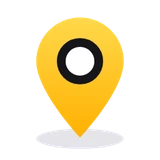
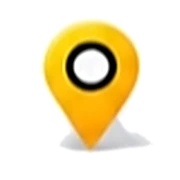
Макет 2: сүрөтчөлөр макеттин өзүнөн, ийри сары-кара фон, сүрөттөрдүн кэшин жаңылоо (?v=8)
Claude-Session: https://claude.ai/code/session_01QqaFd74dCabiCok1GW4n4v

Changed region(s): [[0.2188, 0.0938, 0.8438, 0.9375]]

diff --git a/static/rider.html b/static/rider.html
@@ -100,15 +100,15 @@ input.f:focus{border-color:var(--navy)}
 .quick{display:flex;gap:6px;flex-wrap:wrap;margin-bottom:8px}
 .quick button{border:1px solid var(--line);background:#fff;border-radius:16px;padding:6px 10px;font-size:13px;cursor:pointer}
 </style>
-<link rel="preload" as="image" href="/static/h_taxi.webp"><link rel="preload" as="image" href="/static/h_box.webp"><link rel="preload" as="image" href="/static/h_girl.webp"><link rel="preload" as="image" href="/static/h_map.webp">
-<link rel="stylesheet" href="/static/theme.css?v=67">
+<link rel="preload" as="image" href="/static/h_taxi.webp?v=8"><link rel="preload" as="image" href="/static/h_box.webp?v=8"><link rel="preload" as="image" href="/static/h_girl.webp?v=8"><link rel="preload" as="image" href="/static/h_map.webp?v=8">
+<link rel="stylesheet" href="/static/theme.css?v=69">
 </head>
 <body>
 <div id="map"></div>
 
 <div class="top">
   <div class="lcol"><div class="logo"><img src="/static/logo.png?v=2" alt="">Такси <b>ТАП!</b></div>
-    <div class="role"><a class="on"><img src="/static/r_bag.webp" alt="">Жүргүнчү</a><a href="/driver"><img src="/static/r_car.webp" alt="" class="rc">Айдоочу</a></div></div>
+    <div class="role"><a class="on"><img src="/static/r_bag.webp?v=8" alt="">Жүргүнчү</a><a href="/driver"><img src="/static/r_car.webp?v=8" alt="" class="rc">Айдоочу</a></div></div>
   <button class="round" id="menuBtn" aria-label="Кабинет">👤</button>
 </div>
 
@@ -120,7 +120,7 @@ input.f:focus{border-color:var(--navy)}
 
 <div class="sheet" id="sheet"><div class="grab"></div><div id="view"></div></div>
 <div class="home hide" id="home"></div>
-<nav id="bnav" class="bnav pro"><a data-k="home" class="on"><img src="/static/n_home.webp" alt="">Башкы бет</a><a data-k="trips"><img src="/static/n_trips.webp" alt="">Сапарлар</a><a data-k="go" class="big"><img src="/static/n_go.webp" alt="">Чакыруу</a><a data-k="help"><img src="/static/n_help.webp" alt="">Жардам</a><a data-k="cab"><img src="/static/n_cab.webp" alt="">Кабинет</a></nav>
+<nav id="bnav" class="bnav pro"><a data-k="home" class="on"><img src="/static/n_home.webp?v=8" alt="">Башкы бет</a><a data-k="trips"><img src="/static/n_trips.webp?v=8" alt="">Сапарлар</a><a data-k="go" class="big"><img src="/static/n_go.webp?v=8" alt="">Чакыруу</a><a data-k="help"><img src="/static/n_help.webp?v=8" alt="">Жардам</a><a data-k="cab"><img src="/static/n_cab.webp?v=8" alt="">Кабинет</a></nav>
 
 <script src="https://unpkg.com/leaflet@1.9.4/dist/leaflet.js"></script>
 <script src="/static/area.js"></script>
@@ -230,7 +230,7 @@ function gpsPaint() {
   const el = $("#gpsInfo"); if (!el) return;
   const g = S.gps;
   el.className = "gpsinfo " + (g.state === "ok" ? (S.gpsBad ? "mid" : "good") : "bad");
-  if (g.state === "out") { el.innerHTML = `Сиз иштөө аймагынын сыртындасыз <button class="gpsarea" id="gpsArea"><img src="/static/c_map.webp" alt="">Аймакты көрүү</button>`;
+  if (g.state === "out") { el.innerHTML = `Сиз иштөө аймагынын сыртындасыз <button class="gpsarea" id="gpsArea"><img src="/static/c_map.webp?v=8" alt="">Аймакты көрүү</button>`;
     $("#gpsArea").onclick = () => { homeOn(false); showAreaOnMap(map, () => viewStepA()); }; }
   else el.textContent = g.state === "ok" ? (S.gpsBad ? `📡 Болжолдуу (±${g.acc} м) — картадан тактаңыз` : `📡 GPS так (±${g.acc} м)`)
     : g.state === "denied" ? "⛔ GPS'ке уруксат жок — браузердин жөндөөсүнөн уруксат бериңиз"
@@ -306,11 +306,11 @@ function viewIdle() {
   if (P.work) rec.push({ico:"💼", name:"Иш", sub:P.work.name || "", lat:P.work.lat, lon:P.work.lon});
   (P.recent || []).forEach(r => rec.push({ico:"🕘", name:r.name, sub:"Акыркы сапар", lat:r.lat, lon:r.lon}));
   $("#home").innerHTML = `<div class="hh"><div class="logo"><img src="/static/logo.png?v=2" alt="">Такси <b>ТАП!</b></div><button class="round" id="hMenu" aria-label="Кабинет">${avBtn()}</button></div>
-    <div class="role hrole"><a class="on"><img src="/static/r_bag.webp" alt="">Жүргүнчү</a>${role2()}</div>
-    <button class="haddr" id="hAddr"><small><img class="pinI" src="/static/pin.webp" alt="">Сиз турган жер</small><b id="fromTxt">${esc(S.fromAddr || "Аныкталууда…")}</b><span>›</span></button>
-    <div class="tiles">${tile("tTaxi", "h_taxi.webp", "Такси", `<span id="taxiEta">${homeEta()}</span>`, true, !has("delivery"))}
-      ${has("delivery") ? tile("tDel", "h_box.webp", "Жеткирүү", "Буюм, документ") : ""}</div>
-    <div class="tiles2">${stile("tOther", "h_girl.webp", "Башка адамга такси заказ кылуу")}${stile("tMap", "h_map.webp", "Картадан<br>белгилөө")}</div>
+    <div class="role hrole"><a class="on"><img src="/static/r_bag.webp?v=8" alt="">Жүргүнчү</a>${role2()}</div>
+    <button class="haddr" id="hAddr"><small><img class="pinI" src="/static/pin.webp?v=8" alt="">Сиз турган жер</small><b id="fromTxt">${esc(S.fromAddr || "Аныкталууда…")}</b><span>›</span></button>
+    <div class="tiles">${tile("tTaxi", "h_taxi.webp?v=8", "Такси", `<span id="taxiEta">${homeEta()}</span>`, true, !has("delivery"))}
+      ${has("delivery") ? tile("tDel", "h_box.webp?v=8", "Жеткирүү", "Буюм, документ") : ""}</div>
+    <div class="tiles2">${stile("tOther", "h_girl.webp?v=8", "Башка адамга такси заказ кылуу")}${stile("tMap", "h_map.webp?v=8", "Картадан<br>белгилөө")}</div>
     ${has("comfort") || has("minivan") ? `<div class="tiles3">${has("comfort") ? `<button class="sm" id="tComf"><span>🚘</span>Комфорт</button>` : ""}${has("minivan") ? `<button class="sm" id="tVan"><span>🚐</span>Минивэн</button>` : ""}</div>` : ""}
     <button class="hsearch" id="hSearch">🔍 <span>Каякка барасыз?</span><em>›</em></button>
     <div class="hrec">${rec.slice(0, 5).map((r, i) => `<button class="rec" data-i="${i}"><span class="pi">${r.ico}</span><span class="rt"><b>${esc(r.name)}</b><small>${esc(r.sub)}</small></span><span class="t">${minsTo(r)}</span><span class="chev">›</span></button>`).join("")}</div>
@@ -548,7 +548,7 @@ async function viewQuote() {
     <div class="row"><span class="bul to lt">Б</span><div style="flex:1"><b>${esc(S.toAddr)}</b></div><input class="hn" id="hnT" placeholder="үй №" maxlength="12" value="${esc(S.hnT || "")}"></div>
     <input class="f lm" id="lmT" maxlength="60" placeholder="Б белгиси (милдеттүү эмес)" value="${esc(S.lmT || "")}">
     <div class="cls" id="cls">${q.classes.map(c => `<div data-c="${c.id}"><i>${ICON[c.id] || "🚕"}</i><div class="muted">${esc(c.name)}</div><b>${priceTxt(c)}${q.surge > 1 && c.price ? `<s>${Math.round(c.price / q.surge / 10) * 10} с</s>` : ""}</b></div>`).join("")}</div>
-    ${q.fixed ? `<div class="fixbox"><img src="/static/c_map.webp" alt=""><span><b>Туруктуу баа</b>${esc(q.fixed)} — баа өзгөрбөйт</span></div>` : ""}
+    ${q.fixed ? `<div class="fixbox"><img src="/static/c_map.webp?v=8" alt=""><span><b>Туруктуу баа</b>${esc(q.fixed)} — баа өзгөрбөйт</span></div>` : ""}
     ${q.surge > 1 ? `<div class="surgebox"><span>💓</span>Талап жогору ×${q.surge} — баа бир аз кымбатыраак. Бир аздан кийин арзандашы мүмкүн.</div>` : ""}
     <div class="muted" style="margin-top:6px">${sub} · <span id="qp"></span></div>
     <div id="extra"></div>
@@ -762,7 +762,7 @@ function sheetBox(html, after) {
   const x = $("#bxX"); if (x) x.onclick = closeBox; if (after) after();
 }
 function confirmOut() {
-  if (S.ride) return sheetBox(`<div class="lgx"><div class="lg-ic" style="background:#fff6dd"><img src="/static/r_car.webp" alt="" style="width:56px"></div><h2>Азыр чыгууга болбойт</h2>
+  if (S.ride) return sheetBox(`<div class="lgx"><div class="lg-ic" style="background:#fff6dd"><img src="/static/r_car.webp?v=8" alt="" style="width:56px"></div><h2>Азыр чыгууга болбойт</h2>
       <p class="muted">Сизде жүрүп жаткан сапар бар. Адегенде сапарды бүтүрүңүз же жокко чыгарыңыз.</p>
       <button class="btn main" id="lgBack">Сапарга кайтуу</button></div>`, () => { $("#lgBack").onclick = () => { closeBox(); viewRide(); }; });
   sheetBox(`<div class="lgx"><div class="lg-ic">🚪</div><h2>Аккаунттан чыгасызбы?</h2>
@@ -797,7 +797,7 @@ function viewDone(r) {
   render(`${head}
     ${r.discount ? `<p class="muted" style="margin:-4px 0 6px">🎁 Промокод: −${Math.round(r.discount)} сом</p>` : ""}${r.wait.fee ? `<p class="muted" style="margin:-4px 0 6px">⏳ Күтүү: +${r.wait.fee} сом (баада бар)</p>` : ""}
     ${r.rated ? `<p class="muted" style="text-align:center;margin:14px 0">✓ Бааңыз кабыл алынды. Рахмат!</p>` : `
-    <div class="done-car"><img src="/static/r_car.webp" alt=""></div><h2 class="done-q" id="dq">Сапар кандай болду?</h2><p class="muted" style="text-align:center;margin:0">Пикириңиз жашыруун калат</p>
+    <div class="done-car"><img src="/static/r_car.webp?v=8" alt=""></div><h2 class="done-q" id="dq">Сапар кандай болду?</h2><p class="muted" style="text-align:center;margin:0">Пикириңиз жашыруун калат</p>
     <div class="stars big" id="stars">${[1,2,3,4,5].map(n => `<span data-n="${n}">★</span>`).join("")}</div>
     <div class="tagrow" id="tags"></div>
     <input class="f hide" id="cm" maxlength="300" placeholder="Пикир…">
@@ -892,15 +892,15 @@ async function viewCabinet() {
   const P = PLACES && !PLACES.error ? PLACES : await api("/api/places");
   const place = (k, ico, t) => `<div class="hrow"><span>${ico} <b>${t}</b> ${P[k] ? `<span class="muted">· ${esc(P[k].name || "белгиленген")}</span>` : `<span class="muted">· белгилене элек</span>`}</span>
     <span><button class="lnk-b" style="width:auto;height:32px;padding:0 10px;font-size:13px" data-pl="${k}">${P[k] ? "Өзгөртүү" : "Кошуу"}</button>${P[k] ? ` <button class="lnk-b" style="width:32px;height:32px;font-size:13px" data-del="${k}">✕</button>` : ""}</span></div>`;
-  const li = (id, img, t, sub, href) => `<${href ? `a href="${href}"` : "button"} class="ccard" id="${id}"><img class="cimg" src="/static/${img}.webp" alt=""><span class="ct"><b>${t}</b>${sub ? `<small>${sub}</small>` : ""}</span><em>›</em></${href ? "a" : "button"}>`;
+  const li = (id, img, t, sub, href) => `<${href ? `a href="${href}"` : "button"} class="ccard" id="${id}"><img class="cimg" src="/static/${img}.webp?v=8" alt=""><span class="ct"><b>${t}</b>${sub ? `<small>${sub}</small>` : ""}</span><em>›</em></${href ? "a" : "button"}>`;
   let promo = ""; try { promo = localStorage.getItem("promoPre") || ""; } catch (e) {}
   render(""); homeOn(true);
   $("#home").innerHTML = `<div class="cab2">
       <button class="cab-av" id="avBox">${me.avatar ? `<img src="${esc(me.avatar)}" alt="">` : esc((me.name || "?")[0].toUpperCase())}<span class="cab-cam">📷</span></button>
       <input type="file" accept="image/*" capture="user" id="avCam" hidden><input type="file" accept="image/*" id="avGal" hidden>
       <div class="cab-nm">${esc(me.name || "Жүргүнчү")}</div><div class="cab-ph">${esc(me.phone)}</div>
-      <div class="cab-q"><button id="qH"><img src="/static/c_trips.webp" alt="">Сапарлар</button><a href="${me.bot ? "https://t.me/" + me.bot : "/terms"}" target="_blank"><img src="/static/c_help.webp" alt="">Колдоо</a>
-        <button id="qA"><img src="/static/c_addr.webp" alt="">Даректер</button><button id="qS"><img src="/static/c_set.webp" alt="">Жөндөөлөр</button></div>
+      <div class="cab-q"><button id="qH"><img src="/static/c_trips.webp?v=8" alt="">Сапарлар</button><a href="${me.bot ? "https://t.me/" + me.bot : "/terms"}" target="_blank"><img src="/static/c_help.webp?v=8" alt="">Колдоо</a>
+        <button id="qA"><img src="/static/c_addr.webp?v=8" alt="">Даректер</button><button id="qS"><img src="/static/c_set.webp?v=8" alt="">Жөндөөлөр</button></div>
     <div id="cabMore"></div>
     ${li("cPromo", "c_gift", "Промокод", promo ? "Кийинки заказга: " + esc(promo) : "Промокод киргизүү")}
     ${li("cPay", "c_card", "Төлөм ыкмасы", "Накталай — айдоочуга түз")}
@@ -966,7 +966,7 @@ try { if (new URLSearchParams(location.search).get("next") === "park") localStor
 try { const qs = new URLSearchParams(location.search), rf = qs.get("ref"), pm = qs.get("promo");
   if (rf) { localStorage.setItem("parkRef", rf); if (pm) localStorage.setItem("promoPre", pm.toUpperCase()); history.replaceState(null, "", "/"); } } catch (e) {}
 let ME_ROLE = {};
-const role2 = () => ME_ROLE.park && !ME_ROLE.driver ? `<a href="/park"><span class="rpk">🏢</span>Парк</a>` : `<a href="/driver"><img src="/static/r_car.webp" alt="" class="rc">Айдоочу</a>`;
+const role2 = () => ME_ROLE.park && !ME_ROLE.driver ? `<a href="/park"><span class="rpk">🏢</span>Парк</a>` : `<a href="/driver"><img src="/static/r_car.webp?v=8" alt="" class="rc">Айдоочу</a>`;
 async function boot() {
   const me = await api("/api/me"); ME_ROLE = {park:me.park, driver:me.driver, admin:me.admin};
   if (ME_ROLE.park && !ME_ROLE.driver) document.querySelectorAll(".role a[href='/driver']").forEach(a => a.outerHTML = role2());

diff --git a/static/theme.css b/static/theme.css
@@ -496,7 +496,7 @@ body.dnav .sheet{max-height:calc(100dvh - 318px - env(safe-area-inset-top,0px))!
 .drole a{font-size:12px!important;padding:3px 8px 3px 3px!important;gap:2px}.drole a img{width:22px;height:22px}.drole a img.rc{width:30px;height:20px}
 .lnk-t b .lki{height:26px;width:26px;object-fit:contain;vertical-align:-7px;margin-right:2px}.lnk-t b .lki.rc{width:38px;height:24px;vertical-align:-6px}
 /* ===== Жүргүнчүнүн кабинети — Kake'нин макети (фон + чакан өлчөмдөр) ===== */
-#home.cabbg{background-color:#fff;background-image:url(/static/cb_tl.webp),url(/static/cb_tr.webp),url(/static/cb_bl.webp),url(/static/cb_br.webp);
+#home.cabbg{background-color:#fff;background-image:url(/static/cb_tl.webp?v=8),url(/static/cb_tr.webp?v=8),url(/static/cb_bl.webp?v=8),url(/static/cb_br.webp?v=8);
   background-repeat:no-repeat;background-size:46% auto,48% auto,22% auto,22% auto;background-position:left top,right top,left bottom,right bottom;background-attachment:local}
 .cab2{text-align:center;padding-top:6px}
 .cab2 .cab-av{width:84px;height:84px;margin:0 auto 4px;border:4px solid #ffc400;box-shadow:0 8px 22px rgba(255,170,0,.35);background:#fff;font-size:34px}
@@ -514,7 +514,7 @@ body.dnav .sheet{max-height:calc(100dvh - 318px - env(safe-area-inset-top,0px))!
 /* ===== Бирдиктүү өлчөмдөр (жүргүнчүнүн кабинетиндей) — айдоочунун кабинети ===== */
 .sheet.cabbg{position:fixed}
 .sheet.cabbg::before{content:"";position:absolute;left:0;right:0;top:0;height:170px;pointer-events:none;border-radius:22px 22px 0 0;opacity:.5;
-  background:url(/static/cb_tl.webp) left top/34% auto no-repeat,url(/static/cb_tr.webp) right top/36% auto no-repeat}
+  background:url(/static/cb_tl.webp?v=8) left top/34% auto no-repeat,url(/static/cb_tr.webp?v=8) right top/36% auto no-repeat}
 .sheet.cabbg>*{position:relative;z-index:1}
 .sheet.cabbg h2{font-size:23px;font-weight:900;margin:2px 0 10px}
 .sheet.cabbg .note{font-size:14px;line-height:1.4;padding:11px 13px;border-radius:18px!important;box-shadow:0 6px 16px rgba(20,20,30,.06)}
@@ -527,11 +527,11 @@ body.dnav .sheet{max-height:calc(100dvh - 318px - env(safe-area-inset-top,0px))!
 .sheet.cabbg .hist .row{font-size:14px}
 /* ===== Парктын кабинети: ошол эле фон жана өлчөмдөр ===== */
 .pkbg{position:absolute;left:0;right:0;top:0;height:220px;pointer-events:none;opacity:.55;
-  background:url(/static/cb_tl.webp) left top/40% auto no-repeat,url(/static/cb_tr.webp) right top/42% auto no-repeat}
+  background:url(/static/cb_tl.webp?v=8) left top/40% auto no-repeat,url(/static/cb_tr.webp?v=8) right top/42% auto no-repeat}
 .pkbg+.wrap{position:relative}
 /* ===== Башкы бет (жүргүнчү): ошол эле фон жана өлчөмдөр ===== */
 #home.hbg::before{content:"";position:absolute;left:0;right:0;top:0;height:260px;pointer-events:none;opacity:.5;z-index:0;
-  background:url(/static/cb_tl.webp) left top/42% auto no-repeat,url(/static/cb_tr.webp) right top/44% auto no-repeat}
+  background:url(/static/cb_tl.webp?v=8) left top/42% auto no-repeat,url(/static/cb_tr.webp?v=8) right top/44% auto no-repeat}
 #home.hbg>*{position:relative;z-index:1}
 #home.hbg .haddr b{font-size:22px;font-weight:900}
 #home.hbg .tile b{font-size:22px!important}#home.hbg .tile small{font-size:14px!important}
@@ -603,7 +603,7 @@ body.dnav .sheet{max-height:calc(100dvh - 318px - env(safe-area-inset-top,0px))!
 .dspr{font-size:15px}.dspr:empty{display:none}
 /* ===== Жаңы стиль (Kake'нин макети 2): сары-кара жалпак сүрөтчөлөр, тилкелүү фон, шаар силуэти ===== */
 img[src*="/static/c_"]:not([src*="c_car."]):not([src*="c_hdr"]):not([src*="c_taxi"]),img[src*="/static/n_"]:not([src*="n_go"]){object-fit:contain!important;background:transparent!important;border-radius:0!important}
-#home.cabbg{background-color:#fafafb;background-image:url(/static/cb_tl.webp),url(/static/cb_tr.webp),url(/static/cb_br.webp),url(/static/cb_bl.webp);
+#home.cabbg{background-color:#fafafb;background-image:url(/static/cb_tl.webp?v=8),url(/static/cb_tr.webp?v=8),url(/static/cb_br.webp?v=8),url(/static/cb_bl.webp?v=8);
   background-size:62% auto,34% auto,30% auto,100% auto;background-position:left -2px top -2px,right -2px top 190px,right bottom 70px,left bottom 70px}
 .cab2 .cab-q img{width:44px;height:44px;border-radius:0}
 .cab2 .cab-q>*{border-radius:20px;box-shadow:0 8px 20px rgba(20,20,30,.08)}
@@ -612,10 +612,17 @@ img[src*="/static/c_"]:not([src*="c_car."]):not([src*="c_hdr"]):not([src*="c_tax
 #home.cabbg .cab-out{background:linear-gradient(180deg,#ffd84a,#ffc400 60%,#ffb300)!important;color:#16161a!important;border:0!important;box-shadow:0 10px 24px rgba(255,170,0,.4)!important;
   display:flex!important;align-items:center;justify-content:center;gap:10px;font-weight:900!important}
 #home.cabbg .cab-out svg{width:26px;height:26px}
-.sheet.cabbg::before{opacity:1;height:150px;background:url(/static/cb_tl.webp) left -2px top -2px/52% auto no-repeat,url(/static/cb_tr.webp) right -2px top -40px/26% auto no-repeat}
-.pkbg{opacity:1;background:url(/static/cb_tl.webp) left -2px top -2px/58% auto no-repeat,url(/static/cb_tr.webp) right -2px top 60px/30% auto no-repeat}
-#home.hbg::before{opacity:.9;background:url(/static/cb_tl.webp) left -2px top -2px/60% auto no-repeat,url(/static/cb_tr.webp) right -2px top 120px/30% auto no-repeat}
+.sheet.cabbg::before{opacity:1;height:150px;background:url(/static/cb_tl.webp?v=8) left -2px top -2px/52% auto no-repeat,url(/static/cb_tr.webp?v=8) right -2px top -40px/26% auto no-repeat}
+.pkbg{opacity:1;background:url(/static/cb_tl.webp?v=8) left -2px top -2px/58% auto no-repeat,url(/static/cb_tr.webp?v=8) right -2px top 60px/30% auto no-repeat}
+#home.hbg::before{opacity:.9;background:url(/static/cb_tl.webp?v=8) left -2px top -2px/60% auto no-repeat,url(/static/cb_tr.webp?v=8) right -2px top 120px/30% auto no-repeat}
 .bnav.pro a:not(.big) img{width:34px!important;height:34px!important}
-.sheet.cabbg::before{height:170px;background:url(/static/cb_tr.webp) right -2px top -30px/30% auto no-repeat}
-#home.hbg::before{height:360px;background:url(/static/cb_tr.webp) right -2px top 150px/26% auto no-repeat}
-.pkbg{background:url(/static/cb_tr.webp) right -2px top 40px/32% auto no-repeat}
+.sheet.cabbg::before{height:170px;background:url(/static/cb_tr.webp?v=8) right -2px top -30px/30% auto no-repeat}
+#home.hbg::before{height:360px;background:url(/static/cb_tr.webp?v=8) right -2px top 150px/26% auto no-repeat}
+.pkbg{background:url(/static/cb_tr.webp?v=8) right -2px top 40px/32% auto no-repeat}
+/* макет 2 — фондун жайгашуусу */
+#home.cabbg{background-color:#f7f7f9;background-image:url(/static/cb_tl.webp?v=8),url(/static/cb_tr.webp?v=8),url(/static/cb_br.webp?v=8),url(/static/cb_bl.webp?v=8);
+  background-size:78% auto,40% auto,36% auto,100% auto;background-position:left top,right 0 top 200px,right 0 bottom 64px,left bottom 64px}
+.cab2 .cab-av{background:#fff}
+.sheet.cabbg::before{height:200px;opacity:1;background:url(/static/cb_tr.webp?v=8) right -2px top -50px/30% auto no-repeat}
+#home.hbg::before{height:380px;opacity:1;background:url(/static/cb_tr.webp?v=8) right 0 top 140px/30% auto no-repeat}
+.pkbg{opacity:1;background:url(/static/cb_tr.webp?v=8) right 0 top 30px/34% auto no-repeat}

diff --git a/static/driver.html b/static/driver.html
@@ -81,14 +81,14 @@ label.l{font-size:13px;color:var(--soft);display:block;margin:6px 0 4px}
 .quick button{border:1px solid var(--line);background:#fff;border-radius:16px;padding:6px 10px;font-size:13px;cursor:pointer}
 .sw{display:flex;align-items:center;justify-content:space-between;padding:12px 0;border-top:1px solid var(--line);margin-top:10px}
 </style>
-<link rel="stylesheet" href="/static/theme.css?v=67">
+<link rel="stylesheet" href="/static/theme.css?v=69">
 </head>
 <body>
-<nav id="bnav" class="bnav pro"><a data-k="earn"><img src="/static/n_earn.webp" alt="">Киреше</a><a data-k="hist"><img src="/static/n_trips.webp" alt="">Сапарлар</a><a data-k="line" class="big on"><img src="/static/n_go.webp" alt="">Линия</a><a data-k="help"><img src="/static/n_help.webp" alt="">Жардам</a><a data-k="cab"><img src="/static/n_cab.webp" alt="">Кабинет</a></nav>
+<nav id="bnav" class="bnav pro"><a data-k="earn"><img src="/static/n_earn.webp?v=8" alt="">Киреше</a><a data-k="hist"><img src="/static/n_trips.webp?v=8" alt="">Сапарлар</a><a data-k="line" class="big on"><img src="/static/n_go.webp?v=8" alt="">Линия</a><a data-k="help"><img src="/static/n_help.webp?v=8" alt="">Жардам</a><a data-k="cab"><img src="/static/n_cab.webp?v=8" alt="">Кабинет</a></nav>
 <div id="map"></div>
 <div class="top">
   <div class="lcol"><div class="logo"><img src="/static/logo.png?v=2" alt="">Такси <b>ТАП!</b></div>
-    <div class="role drole"><a href="/"><img src="/static/r_bag.webp" alt="">Жүргүнчү</a><a class="on"><img src="/static/r_car.webp" alt="" class="rc">Айдоочу</a></div></div>
+    <div class="role drole"><a href="/"><img src="/static/r_bag.webp?v=8" alt="">Жүргүнчү</a><a class="on"><img src="/static/r_car.webp?v=8" alt="" class="rc">Айдоочу</a></div></div>
   <div class="rcol"><button class="state hide" id="stBadge" style="display:none">Офлайн</button>
     <button class="tbtn hide topav" id="cabBtn" aria-label="Менин кабинетим">👤</button>
     <div class="r2"><button class="ep hide" id="earn"></button></div>
@@ -285,9 +285,9 @@ document.addEventListener("click", e => { if (e.target.closest && e.target.close
 function outHTML() {
   if (D.in_area !== false) return "";
   const nm = D.area_title || (D.area_gen && D.area_gen !== "иштөө аймагынын" ? D.area_gen.replace(/нун$|нын$|нүн$|нин$/, "") : "");
-  return `<div class="outn"><img src="/static/c_map.webp" alt=""><div><b>Сиз иштөө аймагынын сыртындасыз</b>
+  return `<div class="outn"><img src="/static/c_map.webp?v=8" alt=""><div><b>Сиз иштөө аймагынын сыртындасыз</b>
     <span>Такси ТАП! ${nm ? `<b>${esc(nm)}</b> аймагында` : "иштөө аймагында"} гана иштейт — бул жерде заказ келбейт. Аймакка киргенде заказдар өзү келе баштайт.</span>
-    <button class="btn ghost ib" id="areaShow"><img src="/static/c_map.webp" alt="">Аймакты картадан көрүү</button></div></div>`;
+    <button class="btn ghost ib" id="areaShow"><img src="/static/c_map.webp?v=8" alt="">Аймакты картадан көрүү</button></div></div>`;
 }
 
 function viewHome() {
@@ -328,13 +328,13 @@ function workHTML() {
   if (!ME_D.park && !ME_D.admin) return "";
   return `<div class="work"><h4>💼 Менин ишим</h4><div class="wg">
     ${ME_D.park ? `<a href="/park"><span>🏢</span>Таксопарк<small>${esc(ME_D.park)}</small></a>` : ""}
-    ${ME_D.admin ? `<a href="/admin"><img src="/static/c_tools.webp" alt="">Админ<small>Башкаруу</small></a>` : ""}</div></div>`;
+    ${ME_D.admin ? `<a href="/admin"><img src="/static/c_tools.webp?v=8" alt="">Админ<small>Башкаруу</small></a>` : ""}</div></div>`;
 }
 const SVG_SH = '<svg viewBox="0 0 24 24" fill="none" stroke="currentColor" stroke-width="2.2" stroke-linecap="round" stroke-linejoin="round"><circle cx="18" cy="5" r="3"/><circle cx="6" cy="12" r="3"/><circle cx="18" cy="19" r="3"/><path d="M8.6 13.5l6.8 4M15.4 6.5l-6.8 4"/></svg>';
 const SVG_ZM = '<svg viewBox="0 0 24 24" fill="none" stroke="currentColor" stroke-width="2.2" stroke-linecap="round"><path d="M4 9V4h5M20 9V4h-5M4 15v5h5M20 15v5h-5"/></svg>';
 function myQrHTML() {
   const q = D.qr; if (!q || !window.qrSvg) return "";
-  return `<div class="myqr"><h3><img src="/static/n_cab.webp" alt="">Менин QR кодум</h3>
+  return `<div class="myqr"><h3><img src="/static/n_cab.webp?v=8" alt="">Менин QR кодум</h3>
     <div class="qq">${qrSvg(q.link, 170)}</div>
     <div class="nm">${esc(D.name || "")} · ${esc(q.park)}</div>
     <div class="muted">Жүргүнчүгө сапардан кийин көрсөтүңүз — сканерлесе, кийинки жолу сайттан чакырат</div>
@@ -851,7 +851,7 @@ function viewHelp() {
   window.SHEET && SHEET.expand();
 }
 function confirmOut() {
-  if (D && D.ride) return overlay(`<div class="lgx"><div class="lg-ic" style="background:#fff6dd"><img src="/static/r_car.webp" alt="" style="width:56px"></div><h2>Азыр чыгууга болбойт</h2>
+  if (D && D.ride) return overlay(`<div class="lgx"><div class="lg-ic" style="background:#fff6dd"><img src="/static/r_car.webp?v=8" alt="" style="width:56px"></div><h2>Азыр чыгууга болбойт</h2>
       <p class="muted">Сизде жүрүп жаткан сапар бар. Адегенде сапарды бүтүрүңүз.</p>
       <button class="btn main" id="ovlX">Сапарга кайтуу</button></div>`);
   overlay(`<div class="lgx"><div class="lg-ic">🚪</div><h2>Аккаунттан чыгасызбы?</h2>${D && D.online ? `<div class="lg-warn">🟢 Сиз азыр <b>линиядасыз</b>. Чыксаңыз линиядан да чыгасыз — заказ келбей калат.</div>` : ""}

diff --git a/static/park.html b/static/park.html
@@ -6,7 +6,7 @@
 <meta name="theme-color" content="#fafafa">
 <title>Таксопарк кабинети — Такси ТАП!</title>
 <link rel="apple-touch-icon" href="/static/icon-192.png?v=4">
-<link rel="stylesheet" href="/static/theme.css?v=67">
+<link rel="stylesheet" href="/static/theme.css?v=69">
 <style>
 body{margin:0;font-family:Inter,system-ui,sans-serif;background:#fff;color:#16161a;position:relative}
 .wrap{max-width:560px;margin:0 auto;padding:calc(env(safe-area-inset-top,0px) + 14px) 16px 40px}
@@ -166,12 +166,12 @@ function draw() {
         : `<p class="muted">Азырынча айдоочу жок. Айдоочу адегенде сайтта «Айдоочу болуу» аркылуу катталып, текшерүүдөн өтүшү керек, андан кийин аны бул жерге номери менен кошосуз.</p>`}
       <div class="row"><input class="f" id="dph" placeholder="Айдоочунун номери: 0700 123 456" inputmode="tel"><button class="btn" id="dadd">Кошуу</button></div>
       <div id="dmsg"></div></div>
-    <div class="card"><h2 class="ih"><img src="/static/c_gift.webp" alt="">Жүргүнчүлөрдү тартуу</h2>
+    <div class="card"><h2 class="ih"><img src="/static/c_gift.webp?v=8" alt="">Жүргүнчүлөрдү тартуу</h2>
       <div class="qr"><div id="qr"></div><div><div class="muted">Паркыңыздын коду</div><div class="code">${esc(p.code)}</div>
         <div class="muted" style="margin-top:4px">Жаңы жүргүнчү ушул QR менен келип, биринчи сапарын бүтүрсө — сизге <b>${fmt(p.ref_bonus)} сом</b>.${p.promo_amount ? ` Ага биринчи сапарга <b>−${p.promo_amount} сом</b>.` : ""}</div></div></div>
       <div class="st3"><div><b>${ST.qr.scans}</b><small>сканерленди</small></div><div><b>${ST.qr.joined}</b><small>катталды</small></div><div><b>${ST.qr.rode}</b><small>сапар бүтүрдү</small></div></div>
       <div class="muted" style="margin:12px 0 6px">Басып чыгаруу үлгүсү</div>
-      <div class="tpl">${TPL.map(([k, im, t]) => `<button data-t="${k}" class="${k === TK ? "on" : ""}"><img src="/static/${im}.webp" alt="">${t}</button>`).join("")}</div>
+      <div class="tpl">${TPL.map(([k, im, t]) => `<button data-t="${k}" class="${k === TK ? "on" : ""}"><img src="/static/${im}.webp?v=8" alt="">${t}</button>`).join("")}</div>
       <div class="row"><button class="btn ib" id="print">${IC.print}Басып чыгаруу</button><button class="btn g ib" id="share">${IC.share}Бөлүшүү</button></div>
       <p class="muted" style="margin-top:8px;word-break:break-all">${esc(link)}</p>
       <p class="muted" style="font-size:12.5px">Ар бир айдоочуңуздун да өзүнүн QR'ы бар (айдоочунун кабинетинде) — ким канча жүргүнчү тартканы көрүнөт.</p>

diff --git a/static/area.js b/static/area.js
@@ -53,7 +53,7 @@ function showAreaOnMap(map, onClose) {
   window.SHEET && SHEET.collapse && SHEET.collapse();
   document.querySelectorAll(".areachip").forEach(x => x.remove());
   const c = document.createElement("div"); c.className = "areachip";
-  c.innerHTML = `<img src="/static/c_map.webp" alt=""><span><b>${a.title || a.name}</b><small>Сары сызыктын ичинде заказ келет</small></span><button aria-label="Жабуу">✕</button>`;
+  c.innerHTML = `<img src="/static/c_map.webp?v=8" alt=""><span><b>${a.title || a.name}</b><small>Сары сызыктын ичинде заказ келет</small></span><button aria-label="Жабуу">✕</button>`;
   c.querySelector("button").onclick = () => { c.remove(); if (_areaHl) { _areaHl.remove(); _areaHl = null; } onClose && onClose(); };
   document.body.appendChild(c);
 }
@@ -172,8 +172,8 @@ function linksHTML(bot) {
   const row = (id, ico, title, url, sub) => `<div class="lnk"><div class="lnk-t"><b>${ico} ${title}</b><span>${url.replace(/^https?:\/\//, "")}</span>${sub ? `<small>${sub}</small>` : ""}</div>
     <button class="lnk-b" data-copy="${url}">📋</button><button class="lnk-b" data-share="${url}" data-title="${title}">📤</button></div>`;
   return `<div class="lnks"><h3 style="margin:4px 0 8px">🔗 Такси ТАП! шилтемелери</h3>
-    ${row("p", '<img class="lki" src="/static/r_bag.webp" alt="">', "Жүргүнчүлөр үчүн", o + "/", "Таксини ушул жерден чакырышат")}
-    ${row("d", '<img class="lki rc" src="/static/r_car.webp" alt="">', "Айдоочулар үчүн", o + "/driver", "Айдоочу болуп катталуу")}
+    ${row("p", '<img class="lki" src="/static/r_bag.webp?v=8" alt="">', "Жүргүнчүлөр үчүн", o + "/", "Таксини ушул жерден чакырышат")}
+    ${row("d", '<img class="lki rc" src="/static/r_car.webp?v=8" alt="">', "Айдоочулар үчүн", o + "/driver", "Айдоочу болуп катталуу")}
     ${bot ? row("b", "✈", "Telegram бот", "https://t.me/" + bot, "Номерди ырастоо жана билдирүүлөр") : ""}
     <p class="muted" style="margin:6px 0 0">📋 — көчүрүү, 📤 — WhatsApp, Telegram аркылуу жөнөтүү.</p></div>`;
 }

diff --git a/static/sw.js b/static/sw.js
@@ -1,8 +1,8 @@
 // Такси ТАП! — service worker: тиркеме катары орнотуу жана интернет жок болсо жөнөкөй бет.
 // API'лер жана карта кэштелбейт — абал ар дайым жаңы болушу керек.
-const SHELL = "taxitap-v92";
-const PAGES = ["/", "/driver", "/static/area.js", "/static/manifest.json", "/static/icon-192.png", "/static/logo.png", "/static/n_home.webp", "/static/n_trips.webp", "/static/n_go.webp", "/static/n_help.webp", "/static/n_cab.webp", "/static/n_earn.webp", "/static/r_bag.webp", "/static/r_car.webp", "/static/cb_tl.webp", "/static/cb_tr.webp", "/static/qr.js", "/static/qrshare.js", "/static/c_car.webp",
-  "/static/h_taxi.webp", "/static/h_box.webp", "/static/h_girl.webp", "/static/h_map.webp"];
+const SHELL = "taxitap-v93";
+const PAGES = ["/", "/driver", "/static/area.js", "/static/manifest.json", "/static/icon-192.png", "/static/logo.png", "/static/n_home.webp?v=8", "/static/n_trips.webp?v=8", "/static/n_go.webp?v=8", "/static/n_help.webp?v=8", "/static/n_cab.webp?v=8", "/static/n_earn.webp?v=8", "/static/r_bag.webp?v=8", "/static/r_car.webp?v=8", "/static/cb_tl.webp?v=8", "/static/cb_tr.webp?v=8", "/static/qr.js", "/static/qrshare.js", "/static/c_car.webp?v=8",
+  "/static/h_taxi.webp?v=8", "/static/h_box.webp?v=8", "/static/h_girl.webp?v=8", "/static/h_map.webp?v=8"];
 self.addEventListener("install", e => e.waitUntil(caches.open(SHELL).then(c => c.addAll(PAGES)).then(() => self.skipWaiting())));
 self.addEventListener("activate", e => e.waitUntil(
   caches.keys().then(ks => Promise.all(ks.filter(k => k !== SHELL).map(k => caches.delete(k)))).then(() => self.clients.claim())));

diff --git a/static/qrshare.js b/static/qrshare.js
@@ -42,7 +42,7 @@
     if (!styled) { const s = document.createElement("style"); s.textContent = css; document.head.appendChild(s); styled = true; }
     const full = o.text + "\n" + o.link;
     const ov = document.createElement("div"); ov.className = "qrs-ov";
-    ov.innerHTML = `<div class="qrs-b"><div class="g"></div><h3><img src="/static/c_gift.webp" alt="">Бөлүшүү</h3>
+    ov.innerHTML = `<div class="qrs-b"><div class="g"></div><h3><img src="/static/c_gift.webp?v=8" alt="">Бөлүшүү</h3>
       <div class="qrs-g">
         <button data-k="wa"><div class="qrs-i" style="background:linear-gradient(135deg,#3ddc6f,#1fa855)">${I.wa}</div>WhatsApp</button>
         <button data-k="tg"><div class="qrs-i" style="background:linear-gradient(135deg,#45b5f0,#1f88d6)">${I.tg}</div>Telegram</button>

diff --git a/static/admin.html b/static/admin.html
@@ -68,7 +68,7 @@ td input.f{padding:7px 8px;max-width:90px;min-width:58px}
 .docs{flex-wrap:wrap}.chk{margin:10px 0 2px;padding:10px 12px;border-radius:12px;background:#fff8e1}.chk label{font-weight:500!important;color:#222!important;font-size:14px!important;display:flex!important;gap:8px;align-items:flex-start}.chk input{width:18px;height:18px;flex:none;margin-top:1px}
 .btn:disabled{opacity:.4;cursor:not-allowed}
 </style>
-<link rel="stylesheet" href="/static/theme.css?v=67">
+<link rel="stylesheet" href="/static/theme.css?v=69">
 </head>
 <body class="adm">
 <header><div class="logo"><img src="/static/logo.png?v=2" alt="">Такси <b>ТАП!</b><span class="ver">Админ</span></div><div class="live" id="live"></div></header>

diff --git a/static/track.html b/static/track.html
@@ -22,7 +22,7 @@ h2{font-size:20px;margin:0 0 8px}
 .carm{width:30px;height:30px;border-radius:50%;background:var(--navy);border:3px solid #fff;box-shadow:0 2px 6px rgba(0,0,0,.3);display:grid;place-items:center;color:#fff;font-size:14px}
 .carm.g{background:var(--gold);color:#16161a}
 </style>
-<link rel="stylesheet" href="/static/theme.css?v=67">
+<link rel="stylesheet" href="/static/theme.css?v=69">
 </head>
 <body>
 <div id="map"></div>

diff --git a/static/terms.html b/static/terms.html
@@ -14,7 +14,7 @@ h1{font-size:22px;margin:4px 0 4px}h2{font-size:17px;margin:24px 0 6px}
 p,li{font-size:15px}.muted{color:#8a8a95;font-size:13px}
 a{color:#9a7400}
 </style>
-<link rel="stylesheet" href="/static/theme.css?v=67">
+<link rel="stylesheet" href="/static/theme.css?v=69">
 </head>
 <body>
 <header>Такси <b>ТАП!</b></header>
